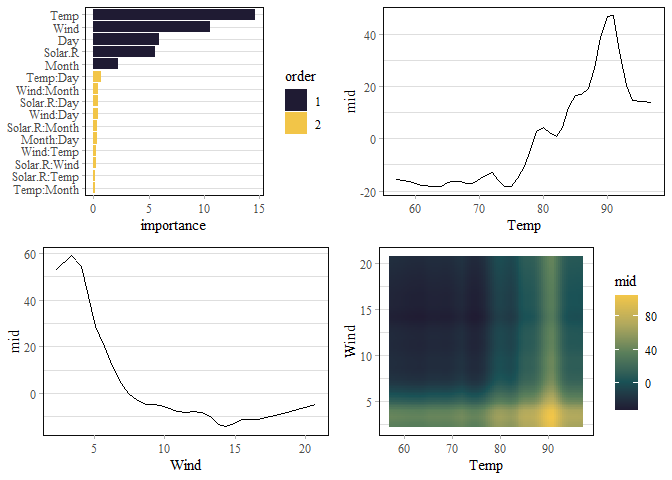
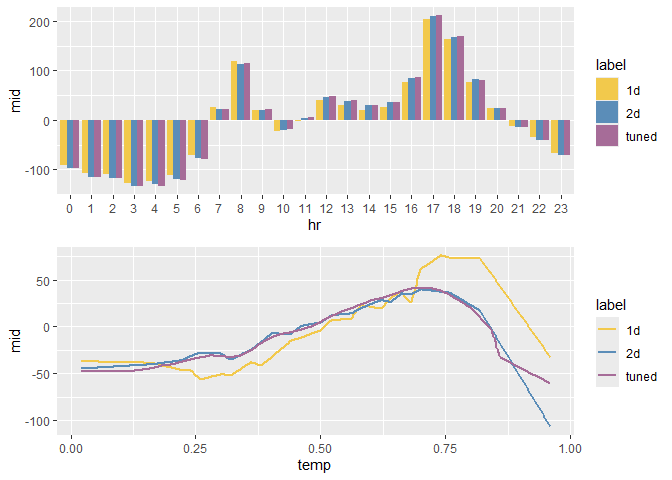
Deploying to gh-pages from @ ryo-asashi/midnight@b5862b089a70319841db5e1a166bdb698d2a6b69 🚀

diff --git a/index.html b/index.html
@@ -42,7 +42,7 @@ img {
 
     <a class="navbar-brand me-2" href="index.html">midnight</a>
 
-    <small class="nav-text text-muted me-auto" data-bs-toggle="tooltip" data-bs-placement="bottom" title="">0.1.2</small>
+    <small class="nav-text text-muted me-auto" data-bs-toggle="tooltip" data-bs-placement="bottom" title="">0.2.0</small>
 
 
     <button class="navbar-toggler" type="button" data-bs-toggle="collapse" data-bs-target="#navbar" aria-controls="navbar" aria-expanded="false" aria-label="Toggle navigation">
@@ -93,7 +93,7 @@ img {
 <span><span class="fu">pak</span><span class="fu">::</span><span class="fu"><a href="https://pak.r-lib.org/reference/pak.html" class="external-link">pak</a></span><span class="op">(</span><span class="st">"ryo-asashi/midnight"</span><span class="op">)</span></span></code></pre></div>
 </div>
 <div class="section level2">
-<h2 id="fit-mid-surrogate-models-using-parsnip">Fit MID Surrogate Models using ‘parsnip’<a class="anchor" aria-label="anchor" href="#fit-mid-surrogate-models-using-parsnip"></a>
+<h2 id="fit-mid-models-using-parsnip">Fit MID Models using ‘parsnip’<a class="anchor" aria-label="anchor" href="#fit-mid-models-using-parsnip"></a>
 </h2>
 <p>This is a basic example which shows you how to solve a common problem:</p>
 <div class="sourceCode" id="cb2"><pre class="downlit sourceCode r">
@@ -103,9 +103,7 @@ img {
 <span><span class="kw"><a href="https://rdrr.io/r/base/library.html" class="external-link">library</a></span><span class="op">(</span><span class="va">gridExtra</span><span class="op">)</span></span>
 <span><span class="kw"><a href="https://rdrr.io/r/base/library.html" class="external-link">library</a></span><span class="op">(</span><span class="va"><a href="https://www.statlearning.com" class="external-link">ISLR2</a></span><span class="op">)</span></span>
 <span></span>
-<span><span class="fu"><a href="https://rdrr.io/r/base/options.html" class="external-link">options</a></span><span class="op">(</span></span>
-<span>  midr.sequential <span class="op">=</span> <span class="st">"moonlit"</span></span>
-<span><span class="op">)</span></span></code></pre></div>
+<span><span class="fu"><a href="reference/nightfall.html">nightfall</a></span><span class="op">(</span><span class="op">)</span> <span class="co"># activate midnight</span></span></code></pre></div>
 <div class="sourceCode" id="cb3"><pre class="downlit sourceCode r">
 <code class="sourceCode R"><span><span class="co"># split dataset into training / validating subsets</span></span>
 <span><span class="fu"><a href="https://rdrr.io/r/base/Random.html" class="external-link">set.seed</a></span><span class="op">(</span><span class="fl">42</span><span class="op">)</span></span>
@@ -117,6 +115,9 @@ img {
 <span><span class="va">holdout</span> <span class="op">&lt;-</span> <span class="fu">initial_split</span><span class="op">(</span><span class="va">all</span>, prop <span class="op">=</span> <span class="fl">.5</span><span class="op">)</span></span>
 <span><span class="va">train</span> <span class="op">&lt;-</span> <span class="fu">training</span><span class="op">(</span><span class="va">holdout</span><span class="op">)</span></span>
 <span><span class="va">valid</span> <span class="op">&lt;-</span> <span class="fu">testing</span><span class="op">(</span><span class="va">holdout</span><span class="op">)</span></span></code></pre></div>
+<div class="section level3">
+<h3 id="first-order-mid-model">First-Order MID Model<a class="anchor" aria-label="anchor" href="#first-order-mid-model"></a>
+</h3>
 <div class="sourceCode" id="cb4"><pre class="downlit sourceCode r">
 <code class="sourceCode R"><span><span class="co"># create a first-order mid surrogate model</span></span>
 <span><span class="va">mid_spec_1</span> <span class="op">&lt;-</span> <span class="fu"><a href="reference/mid_reg.html">mid_reg</a></span><span class="op">(</span><span class="op">)</span></span>
@@ -132,7 +133,8 @@ img {
 <span><span class="co">#&gt; </span></span>
 <span><span class="co">#&gt; </span></span>
 <span><span class="co">#&gt; Call:</span></span>
-<span><span class="co">#&gt; interpret(formula = bikers ~ ., data = data)</span></span>
+<span><span class="co">#&gt; interpret(formula = bikers ~ ., data = data, model = NULL, weights = NULL,</span></span>
+<span><span class="co">#&gt;  k = NULL, k2 = NULL, lambda = NULL, terms = terms)</span></span>
 <span><span class="co">#&gt; </span></span>
 <span><span class="co">#&gt; Intercept: 146.06</span></span>
 <span><span class="co">#&gt; </span></span>
@@ -157,24 +159,45 @@ img {
 <span><span class="op">)</span></span></code></pre></div>
 <p><img src="reference/figures/README-ggmid_1d_fit-1.png" width="100%"></p>
 <div class="sourceCode" id="cb6"><pre class="downlit sourceCode r">
+<code class="sourceCode R"><span><span class="fu"><a href="https://ryo-asashi.github.io/midr/reference/theme_midr.html" class="external-link">par.midr</a></span><span class="op">(</span>mar <span class="op">=</span> <span class="fu"><a href="https://rdrr.io/r/base/c.html" class="external-link">c</a></span><span class="op">(</span><span class="fl">1</span>, <span class="fl">1</span>, <span class="fl">0</span>, <span class="fl">0</span><span class="op">)</span><span class="op">)</span></span>
+<span><span class="fu"><a href="https://rdrr.io/r/graphics/persp.html" class="external-link">persp</a></span><span class="op">(</span><span class="va">mid_1</span><span class="op">$</span><span class="va">fit</span>, <span class="st">"temp:hr"</span>, theta <span class="op">=</span> <span class="fl">50</span>, phi <span class="op">=</span> <span class="fl">20</span>, shade <span class="op">=</span> <span class="fl">.5</span><span class="op">)</span></span></code></pre></div>
+<p><img src="reference/figures/README-persp_mid_1-1.png" width="100%"></p>
+</div>
+<div class="section level3">
+<h3 id="second-order-mid-model">Second-Order MID Model<a class="anchor" aria-label="anchor" href="#second-order-mid-model"></a>
+</h3>
+<div class="sourceCode" id="cb7"><pre class="downlit sourceCode r">
 <code class="sourceCode R"><span><span class="co"># create a second-order mid surrogate model via "custom formula"</span></span>
-<span><span class="va">mid_spec_2</span> <span class="op">&lt;-</span> <span class="fu"><a href="reference/mid_reg.html">mid_reg</a></span><span class="op">(</span>penalty <span class="op">=</span> <span class="fl">0.000001</span><span class="op">)</span></span>
+<span><span class="va">mid_spec_2</span> <span class="op">&lt;-</span> <span class="fu"><a href="reference/mid_reg.html">mid_reg</a></span><span class="op">(</span></span>
+<span>  penalty <span class="op">=</span> <span class="fl">0.000001</span>,</span>
+<span>  terms <span class="op">=</span> <span class="va">bikers</span> <span class="op">~</span> <span class="va">.</span><span class="op">^</span><span class="fl">2</span> <span class="co"># add interaction terms</span></span>
+<span><span class="op">)</span> <span class="op">|&gt;</span></span>
+<span>  <span class="fu">set_engine</span><span class="op">(</span></span>
+<span>    <span class="st">"midr"</span>,</span>
+<span>    method <span class="op">=</span> <span class="st">"llt"</span> <span class="co"># for faster computation</span></span>
+<span>  <span class="op">)</span></span>
 <span><span class="va">mid_spec_2</span></span>
 <span><span class="co">#&gt; mid reg Model Specification (regression)</span></span>
 <span><span class="co">#&gt; </span></span>
 <span><span class="co">#&gt; Main Arguments:</span></span>
 <span><span class="co">#&gt;   penalty = 1e-06</span></span>
+<span><span class="co">#&gt;   terms = bikers ~ .^2</span></span>
+<span><span class="co">#&gt; </span></span>
+<span><span class="co">#&gt; Engine-Specific Arguments:</span></span>
+<span><span class="co">#&gt;   method = llt</span></span>
 <span><span class="co">#&gt; </span></span>
 <span><span class="co">#&gt; Computational engine: midr</span></span>
 <span><span class="co"># fit the model</span></span>
 <span><span class="va">mid_2</span> <span class="op">&lt;-</span> <span class="va">mid_spec_2</span> <span class="op">%&gt;%</span></span>
-<span>  <span class="fu">fit</span><span class="op">(</span><span class="va">bikers</span> <span class="op">~</span> <span class="va">.</span><span class="op">^</span><span class="fl">2</span>, <span class="va">train</span><span class="op">)</span> <span class="co"># pass original data on to interpret()</span></span>
+<span>  <span class="fu">fit</span><span class="op">(</span><span class="va">bikers</span> <span class="op">~</span> <span class="va">.</span>, <span class="va">train</span><span class="op">)</span></span>
 <span><span class="va">mid_2</span></span>
 <span><span class="co">#&gt; parsnip model object</span></span>
 <span><span class="co">#&gt; </span></span>
 <span><span class="co">#&gt; </span></span>
 <span><span class="co">#&gt; Call:</span></span>
-<span><span class="co">#&gt; interpret(formula = bikers ~ .^2, data = data, lambda = 1e-06)</span></span>
+<span><span class="co">#&gt; interpret(formula = bikers ~ .^2, data = data, model = NULL,</span></span>
+<span><span class="co">#&gt;  weights = NULL, k = NULL, k2 = NULL, lambda = 1e-06, terms = terms,</span></span>
+<span><span class="co">#&gt;  method = "llt")</span></span>
 <span><span class="co">#&gt; </span></span>
 <span><span class="co">#&gt; Intercept: 146.06</span></span>
 <span><span class="co">#&gt; </span></span>
@@ -192,7 +215,7 @@ img {
 <span><span class="co">#&gt;   .metric .estimator .estimate</span></span>
 <span><span class="co">#&gt;   &lt;chr&gt;   &lt;chr&gt;          &lt;dbl&gt;</span></span>
 <span><span class="co">#&gt; 1 rmse    standard        44.3</span></span></code></pre></div>
-<div class="sourceCode" id="cb7"><pre class="downlit sourceCode r">
+<div class="sourceCode" id="cb8"><pre class="downlit sourceCode r">
 <code class="sourceCode R"><span><span class="va">imp_2</span> <span class="op">&lt;-</span> <span class="fu"><a href="https://ryo-asashi.github.io/midr/reference/mid.importance.html" class="external-link">mid.importance</a></span><span class="op">(</span><span class="va">mid_2</span><span class="op">$</span><span class="va">fit</span>, data <span class="op">=</span> <span class="va">train</span><span class="op">)</span></span>
 <span><span class="fu"><a href="https://rdrr.io/pkg/gridExtra/man/arrangeGrob.html" class="external-link">grid.arrange</a></span><span class="op">(</span>nrow <span class="op">=</span> <span class="fl">2</span>,</span>
 <span> <span class="fu"><a href="https://ryo-asashi.github.io/midr/reference/ggmid.html" class="external-link">ggmid</a></span><span class="op">(</span><span class="va">imp_2</span>, max.nterms <span class="op">=</span> <span class="fl">15</span><span class="op">)</span>,</span>
@@ -202,28 +225,29 @@ img {
 <span>       data <span class="op">=</span> <span class="va">valid</span>, main.effects <span class="op">=</span> <span class="cn">TRUE</span><span class="op">)</span></span>
 <span><span class="op">)</span></span></code></pre></div>
 <p><img src="reference/figures/README-ggmid_2d_fit-1.png" width="100%"></p>
-<div class="sourceCode" id="cb8"><pre class="downlit sourceCode r">
+<div class="sourceCode" id="cb9"><pre class="downlit sourceCode r">
 <code class="sourceCode R"><span><span class="fu"><a href="https://ryo-asashi.github.io/midr/reference/theme_midr.html" class="external-link">par.midr</a></span><span class="op">(</span>mar <span class="op">=</span> <span class="fu"><a href="https://rdrr.io/r/base/c.html" class="external-link">c</a></span><span class="op">(</span><span class="fl">1</span>, <span class="fl">1</span>, <span class="fl">0</span>, <span class="fl">0</span><span class="op">)</span><span class="op">)</span></span>
 <span><span class="fu"><a href="https://rdrr.io/r/graphics/persp.html" class="external-link">persp</a></span><span class="op">(</span><span class="va">mid_2</span><span class="op">$</span><span class="va">fit</span>, <span class="st">"temp:hr"</span>, theta <span class="op">=</span> <span class="fl">50</span>, phi <span class="op">=</span> <span class="fl">20</span>, shade <span class="op">=</span> <span class="fl">.5</span><span class="op">)</span></span></code></pre></div>
-<p><img src="reference/figures/README-persp_mid-1.png" width="100%"></p>
+<p><img src="reference/figures/README-persp_mid_2-1.png" width="100%"></p>
+</div>
 </div>
 <div class="section level2">
 <h2 id="tune-mid-surrogate-models-using-tune">Tune MID Surrogate Models using ‘tune’<a class="anchor" aria-label="anchor" href="#tune-mid-surrogate-models-using-tune"></a>
 </h2>
-<div class="sourceCode" id="cb9"><pre class="downlit sourceCode r">
+<div class="sourceCode" id="cb10"><pre class="downlit sourceCode r">
 <code class="sourceCode R"><span><span class="co"># create a second-order mid surrogate model via "custom formula"</span></span>
 <span><span class="co"># </span></span>
 <span><span class="va">mid_spec_3</span> <span class="op">&lt;-</span> <span class="fu"><a href="reference/mid_reg.html">mid_reg</a></span><span class="op">(</span></span>
 <span>  params_main <span class="op">=</span> <span class="fu">tune</span><span class="op">(</span><span class="op">)</span>,</span>
 <span>  params_inter <span class="op">=</span> <span class="fu">tune</span><span class="op">(</span><span class="op">)</span>,</span>
 <span>  penalty <span class="op">=</span> <span class="fu">tune</span><span class="op">(</span><span class="op">)</span>,</span>
-<span>  terms <span class="op">=</span> <span class="op">~</span><span class="op">(</span><span class="va">mnth</span><span class="op">+</span><span class="va">hr</span><span class="op">+</span><span class="va">workingday</span><span class="op">+</span><span class="va">weathersit</span><span class="op">+</span><span class="va">temp</span><span class="op">+</span><span class="va">hum</span><span class="op">+</span><span class="va">windspeed</span><span class="op">)</span><span class="op">^</span><span class="fl">2</span></span>
-<span>  <span class="co"># all main effects and all 2-way interactions</span></span>
+<span>  terms <span class="op">=</span> <span class="va">bikers</span> <span class="op">~</span> <span class="va">.</span><span class="op">^</span><span class="fl">2</span></span>
 <span><span class="op">)</span> <span class="op">|&gt;</span></span>
 <span>  <span class="fu">set_engine</span><span class="op">(</span></span>
 <span>    engine <span class="op">=</span> <span class="st">"midr"</span>,</span>
-<span>    method <span class="op">=</span> <span class="st">"llt"</span>,</span>
-<span>    verbosity <span class="op">=</span> <span class="fl">0L</span></span>
+<span>    method <span class="op">=</span> <span class="st">"llt"</span>, <span class="co"># for faster computation</span></span>
+<span>    verbosity <span class="op">=</span> <span class="fl">0L</span>, <span class="co"># for keeping console clean</span></span>
+<span>    singular.ok <span class="op">=</span> <span class="cn">TRUE</span> <span class="co"># for avoiding errors</span></span>
 <span>  <span class="op">)</span></span>
 <span><span class="va">mid_spec_3</span></span>
 <span><span class="co">#&gt; mid reg Model Specification (regression)</span></span>
@@ -232,20 +256,21 @@ img {
 <span><span class="co">#&gt;   penalty = tune()</span></span>
 <span><span class="co">#&gt;   params_main = tune()</span></span>
 <span><span class="co">#&gt;   params_inter = tune()</span></span>
-<span><span class="co">#&gt;   terms = ~(mnth + hr + workingday + weathersit + temp + hum + windspeed)^2</span></span>
+<span><span class="co">#&gt;   terms = bikers ~ .^2</span></span>
 <span><span class="co">#&gt; </span></span>
 <span><span class="co">#&gt; Engine-Specific Arguments:</span></span>
 <span><span class="co">#&gt;   method = llt</span></span>
 <span><span class="co">#&gt;   verbosity = 0</span></span>
+<span><span class="co">#&gt;   singular.ok = TRUE</span></span>
 <span><span class="co">#&gt; </span></span>
 <span><span class="co">#&gt; Computational engine: midr</span></span>
 <span><span class="co"># define a cross validation method</span></span>
 <span><span class="fu"><a href="https://rdrr.io/r/base/Random.html" class="external-link">set.seed</a></span><span class="op">(</span><span class="fl">42</span><span class="op">)</span></span>
 <span><span class="va">cv</span> <span class="op">&lt;-</span> <span class="fu">vfold_cv</span><span class="op">(</span><span class="va">train</span>, v <span class="op">=</span> <span class="fl">2</span><span class="op">)</span></span>
-<span><span class="co"># execute the hyperparameter tuning</span></span>
+<span><span class="co"># execute the parameter tuning</span></span>
 <span><span class="va">tune_res</span> <span class="op">&lt;-</span> <span class="va">mid_spec_3</span> <span class="op">%&gt;%</span></span>
 <span>  <span class="fu">tune_bayes</span><span class="op">(</span></span>
-<span>    <span class="va">bikers</span> <span class="op">~</span> <span class="va">.</span>, <span class="co"># not allow tune_bayes() to preprocess data</span></span>
+<span>    <span class="va">bikers</span> <span class="op">~</span> <span class="va">.</span>, <span class="co"># pass original data on to interpret()</span></span>
 <span>    resamples <span class="op">=</span> <span class="va">cv</span>,</span>
 <span>    iter <span class="op">=</span> <span class="fl">50</span></span>
 <span>  <span class="op">)</span></span>
@@ -255,12 +280,13 @@ img {
 <span><span class="co">#&gt;   penalty params_main params_inter .config</span></span>
 <span><span class="co">#&gt;     &lt;dbl&gt;       &lt;int&gt;        &lt;int&gt; &lt;chr&gt;  </span></span>
 <span><span class="co">#&gt; 1   0.668          70            5 Iter23</span></span></code></pre></div>
-<div class="sourceCode" id="cb10"><pre class="downlit sourceCode r">
+<div class="sourceCode" id="cb11"><pre class="downlit sourceCode r">
 <code class="sourceCode R"><span><span class="co"># create a second-order mid surrogate model via "custom formula"</span></span>
 <span><span class="va">mid_spec_4</span> <span class="op">&lt;-</span> <span class="fu"><a href="reference/mid_reg.html">mid_reg</a></span><span class="op">(</span></span>
 <span>  params_main <span class="op">=</span> <span class="va">tune_best</span><span class="op">$</span><span class="va">params_main</span>,</span>
 <span>  params_inter <span class="op">=</span> <span class="va">tune_best</span><span class="op">$</span><span class="va">params_inter</span>,</span>
-<span>  penalty <span class="op">=</span> <span class="va">tune_best</span><span class="op">$</span><span class="va">penalty</span></span>
+<span>  penalty <span class="op">=</span> <span class="va">tune_best</span><span class="op">$</span><span class="va">penalty</span>,</span>
+<span>  terms <span class="op">=</span> <span class="va">bikers</span> <span class="op">~</span> <span class="va">.</span><span class="op">^</span><span class="fl">2</span></span>
 <span><span class="op">)</span></span>
 <span><span class="va">mid_spec_4</span></span>
 <span><span class="co">#&gt; mid reg Model Specification (regression)</span></span>
@@ -269,18 +295,20 @@ img {
 <span><span class="co">#&gt;   penalty = tune_best$penalty</span></span>
 <span><span class="co">#&gt;   params_main = tune_best$params_main</span></span>
 <span><span class="co">#&gt;   params_inter = tune_best$params_inter</span></span>
+<span><span class="co">#&gt;   terms = bikers ~ .^2</span></span>
 <span><span class="co">#&gt; </span></span>
 <span><span class="co">#&gt; Computational engine: midr</span></span>
 <span><span class="co"># fit the model</span></span>
 <span><span class="va">mid_tune</span> <span class="op">&lt;-</span> <span class="va">mid_spec_4</span> <span class="op">%&gt;%</span></span>
-<span>  <span class="fu">fit</span><span class="op">(</span><span class="va">bikers</span> <span class="op">~</span> <span class="va">.</span><span class="op">^</span><span class="fl">2</span>, <span class="va">train</span><span class="op">)</span> <span class="co"># pass original data on to interpret()</span></span>
+<span>  <span class="fu">fit</span><span class="op">(</span><span class="va">bikers</span> <span class="op">~</span> <span class="va">.</span>, <span class="va">train</span><span class="op">)</span></span>
 <span><span class="va">mid_tune</span></span>
 <span><span class="co">#&gt; parsnip model object</span></span>
 <span><span class="co">#&gt; </span></span>
 <span><span class="co">#&gt; </span></span>
 <span><span class="co">#&gt; Call:</span></span>
-<span><span class="co">#&gt; interpret(formula = bikers ~ .^2, data = data, k = 70L, lambda = 0.668346758138943,</span></span>
-<span><span class="co">#&gt;  k2 = 5L)</span></span>
+<span><span class="co">#&gt; interpret(formula = bikers ~ .^2, data = data, model = NULL,</span></span>
+<span><span class="co">#&gt;  weights = NULL, k = 70L, k2 = 5L, lambda = 0.668346758138943,</span></span>
+<span><span class="co">#&gt;  terms = terms)</span></span>
 <span><span class="co">#&gt; </span></span>
 <span><span class="co">#&gt; Intercept: 146.06</span></span>
 <span><span class="co">#&gt; </span></span>
@@ -298,7 +326,7 @@ img {
 <span><span class="co">#&gt;   .metric .estimator .estimate</span></span>
 <span><span class="co">#&gt;   &lt;chr&gt;   &lt;chr&gt;          &lt;dbl&gt;</span></span>
 <span><span class="co">#&gt; 1 rmse    standard        43.0</span></span></code></pre></div>
-<div class="sourceCode" id="cb11"><pre class="downlit sourceCode r">
+<div class="sourceCode" id="cb12"><pre class="downlit sourceCode r">
 <code class="sourceCode R"><span><span class="va">imp_tune</span> <span class="op">&lt;-</span> <span class="fu"><a href="https://ryo-asashi.github.io/midr/reference/mid.importance.html" class="external-link">mid.importance</a></span><span class="op">(</span><span class="va">mid_tune</span><span class="op">$</span><span class="va">fit</span>, data <span class="op">=</span> <span class="va">train</span><span class="op">)</span></span>
 <span><span class="fu"><a href="https://rdrr.io/pkg/gridExtra/man/arrangeGrob.html" class="external-link">grid.arrange</a></span><span class="op">(</span>nrow <span class="op">=</span> <span class="fl">2</span>,</span>
 <span> <span class="fu"><a href="https://ryo-asashi.github.io/midr/reference/ggmid.html" class="external-link">ggmid</a></span><span class="op">(</span><span class="va">imp_tune</span>, max.nterms <span class="op">=</span> <span class="fl">15</span><span class="op">)</span>,</span>
@@ -308,10 +336,26 @@ img {
 <span>       data <span class="op">=</span> <span class="va">valid</span>, main.effects <span class="op">=</span> <span class="cn">TRUE</span><span class="op">)</span></span>
 <span><span class="op">)</span></span></code></pre></div>
 <p><img src="reference/figures/README-ggmid_tune_fit-1.png" width="100%"></p>
-<div class="sourceCode" id="cb12"><pre class="downlit sourceCode r">
+<div class="sourceCode" id="cb13"><pre class="downlit sourceCode r">
 <code class="sourceCode R"><span><span class="fu"><a href="https://ryo-asashi.github.io/midr/reference/theme_midr.html" class="external-link">par.midr</a></span><span class="op">(</span>mar <span class="op">=</span> <span class="fu"><a href="https://rdrr.io/r/base/c.html" class="external-link">c</a></span><span class="op">(</span><span class="fl">1</span>, <span class="fl">1</span>, <span class="fl">0</span>, <span class="fl">0</span><span class="op">)</span><span class="op">)</span></span>
 <span><span class="fu"><a href="https://rdrr.io/r/graphics/persp.html" class="external-link">persp</a></span><span class="op">(</span><span class="va">mid_tune</span><span class="op">$</span><span class="va">fit</span>, <span class="st">"temp:hr"</span>, theta <span class="op">=</span> <span class="fl">50</span>, phi <span class="op">=</span> <span class="fl">20</span>, shade <span class="op">=</span> <span class="fl">.5</span><span class="op">)</span></span></code></pre></div>
 <p><img src="reference/figures/README-persp_tuned_mid-1.png" width="100%"></p>
+</div>
+<div class="section level2">
+<h2 id="compare-mid-models">Compare MID Models<a class="anchor" aria-label="anchor" href="#compare-mid-models"></a>
+</h2>
+<div class="sourceCode" id="cb14"><pre class="downlit sourceCode r">
+<code class="sourceCode R"><span><span class="co"># construct a midlist object</span></span>
+<span><span class="va">mids</span> <span class="op">&lt;-</span> <span class="fu"><a href="https://ryo-asashi.github.io/midr/reference/midlist.html" class="external-link">midlist</a></span><span class="op">(</span></span>
+<span>  <span class="st">"1d"</span> <span class="op">=</span> <span class="va">mid_1</span><span class="op">$</span><span class="va">fit</span>,</span>
+<span>  <span class="st">"2d"</span> <span class="op">=</span> <span class="va">mid_2</span><span class="op">$</span><span class="va">fit</span>,</span>
+<span>  <span class="st">"tuned"</span> <span class="op">=</span> <span class="va">mid_tune</span><span class="op">$</span><span class="va">fit</span></span>
+<span><span class="op">)</span></span>
+<span><span class="fu"><a href="https://rdrr.io/pkg/gridExtra/man/arrangeGrob.html" class="external-link">grid.arrange</a></span><span class="op">(</span></span>
+<span>  <span class="fu"><a href="https://ryo-asashi.github.io/midr/reference/ggmid.html" class="external-link">ggmid</a></span><span class="op">(</span><span class="va">mids</span>, <span class="st">"hr"</span><span class="op">)</span>,</span>
+<span>  <span class="fu"><a href="https://ryo-asashi.github.io/midr/reference/ggmid.html" class="external-link">ggmid</a></span><span class="op">(</span><span class="va">mids</span>, <span class="st">"temp"</span>, linewidth <span class="op">=</span> <span class="fl">3</span><span class="op">/</span><span class="fl">4</span><span class="op">)</span></span>
+<span><span class="op">)</span></span></code></pre></div>
+<p><img src="reference/figures/README-unnamed-chunk-2-1.png" width="100%"></p>
 </div>
 </div>
   </main><aside class="col-md-3"><div class="links">

diff --git a/articles/midnight.html b/articles/midnight.html
@@ -42,7 +42,7 @@ img {
 
     <a class="navbar-brand me-2" href="../index.html">midnight</a>
 
-    <small class="nav-text text-muted me-auto" data-bs-toggle="tooltip" data-bs-placement="bottom" title="">0.1.2</small>
+    <small class="nav-text text-muted me-auto" data-bs-toggle="tooltip" data-bs-placement="bottom" title="">0.2.0</small>
 
 
     <button class="navbar-toggler" type="button" data-bs-toggle="collapse" data-bs-target="#navbar" aria-controls="navbar" aria-expanded="false" aria-label="Toggle navigation">
@@ -136,7 +136,8 @@ model fitting and hyperparameter tuning.</p>
 <span><span class="co">#&gt; </span></span>
 <span><span class="co">#&gt; Call:</span></span>
 <span><span class="co">#&gt; interpret(formula = Ozone ~ (Wind + Solar.R)^2, data = data,</span></span>
-<span><span class="co">#&gt;  k = 50, lambda = 5)</span></span>
+<span><span class="co">#&gt;  model = NULL, weights = NULL, k = 50, k2 = NULL, lambda = 5,</span></span>
+<span><span class="co">#&gt;  terms = terms)</span></span>
 <span><span class="co">#&gt; </span></span>
 <span><span class="co">#&gt; Intercept: 42.099</span></span>
 <span><span class="co">#&gt; </span></span>
@@ -204,7 +205,8 @@ leverage this speed boost across your entire modeling pipeline by using
 <span><span class="co">#&gt; </span></span>
 <span><span class="co">#&gt; Call:</span></span>
 <span><span class="co">#&gt; interpret(formula = cbind(Ozone, Temp) ~ (Wind + Solar.R)^2,</span></span>
-<span><span class="co">#&gt;  data = data, k = 50, lambda = 5)</span></span>
+<span><span class="co">#&gt;  data = data, model = NULL, weights = NULL, k = 50, k2 = NULL,</span></span>
+<span><span class="co">#&gt;  lambda = 5, terms = terms)</span></span>
 <span><span class="co">#&gt; </span></span>
 <span><span class="co">#&gt; Intercept: 42.099, 77.793</span></span>
 <span><span class="co">#&gt; </span></span>

diff --git a/news/index.html b/news/index.html
@@ -18,7 +18,7 @@ img {
 
     <a class="navbar-brand me-2" href="../index.html">midnight</a>
 
-    <small class="nav-text text-muted me-auto" data-bs-toggle="tooltip" data-bs-placement="bottom" title="">0.1.2</small>
+    <small class="nav-text text-muted me-auto" data-bs-toggle="tooltip" data-bs-placement="bottom" title="">0.2.0</small>
 
 
     <button class="navbar-toggler" type="button" data-bs-toggle="collapse" data-bs-target="#navbar" aria-controls="navbar" aria-expanded="false" aria-label="Toggle navigation">
@@ -51,14 +51,14 @@ img {
     </div>
 
     <div class="section level2">
-<h2 class="pkg-version" data-toc-text="0.1.2" id="midnight-012">midnight 0.1.2<a class="anchor" aria-label="anchor" href="#midnight-012"></a></h2>
+<h2 class="pkg-version" data-toc-text="0.2.0" id="midnight-020">midnight 0.2.0<a class="anchor" aria-label="anchor" href="#midnight-020"></a></h2>
 <div class="section level3">
-<h3 id="new-features-0-1-2">New Features<a class="anchor" aria-label="anchor" href="#new-features-0-1-2"></a></h3>
+<h3 id="new-features-0-2-0">New Features<a class="anchor" aria-label="anchor" href="#new-features-0-2-0"></a></h3>
 <ul><li>Introduced <code><a href="../reference/nightfall.html">nightfall()</a></code> and <code><a href="../reference/nightfall.html">daybreak()</a></code> to seamlessly toggle the package’s extended features, including dynamic S3 method registration, custom color themes, and high-performance OLS solvers.</li>
 <li>Added <code><a href="../reference/fastLmMatrix.html">fastLmMatrix()</a></code>, an optimized wrapper around <code><a href="https://rdrr.io/pkg/RcppEigen/man/fastLm.html" class="external-link">RcppEigen::fastLm()</a></code> that efficiently handles multivariate (matrix) responses.</li>
 </ul></div>
 <div class="section level3">
-<h3 id="minor-improvements-0-1-2">Minor Improvements<a class="anchor" aria-label="anchor" href="#minor-improvements-0-1-2"></a></h3>
+<h3 id="minor-improvements-0-2-0">Minor Improvements<a class="anchor" aria-label="anchor" href="#minor-improvements-0-2-0"></a></h3>
 <ul><li>Renamed and updated the <code>ggmid.midimp</code> wrapper to ensure perfect alignment with <code>midr</code> (&gt;= 0.6.0).</li>
 <li>Streamlined the package structure by significantly reducing hard dependencies (<code>Imports</code>).</li>
 </ul></div>

diff --git a/authors.html b/authors.html
@@ -18,7 +18,7 @@ img {
 
     <a class="navbar-brand me-2" href="index.html">midnight</a>
 
-    <small class="nav-text text-muted me-auto" data-bs-toggle="tooltip" data-bs-placement="bottom" title="">0.1.2</small>
+    <small class="nav-text text-muted me-auto" data-bs-toggle="tooltip" data-bs-placement="bottom" title="">0.2.0</small>
 
 
     <button class="navbar-toggler" type="button" data-bs-toggle="collapse" data-bs-target="#navbar" aria-controls="navbar" aria-expanded="false" aria-label="Toggle navigation">
@@ -64,13 +64,13 @@ img {
 
       <p>Asashiba R (2026).
 <em>midnight: A 'tidymodels' Engine and Other Extensions for the 'midr' Package</em>.
-R package version 0.1.2, <a href="https://github.com/ryo-asashi/midnight" class="external-link">https://github.com/ryo-asashi/midnight</a>.
+R package version 0.2.0, <a href="https://github.com/ryo-asashi/midnight" class="external-link">https://github.com/ryo-asashi/midnight</a>.
 </p>
       <pre>@Manual{,
   title = {midnight: A 'tidymodels' Engine and Other Extensions for the 'midr' Package},
   author = {Ryoichi Asashiba},
   year = {2026},
-  note = {R package version 0.1.2},
+  note = {R package version 0.2.0},
   url = {https://github.com/ryo-asashi/midnight},
 }</pre>
     </div>

diff --git a/404.html b/404.html
@@ -40,7 +40,7 @@ img {
 
     <a class="navbar-brand me-2" href="https://ryo-asashi.github.io/midnight/index.html">midnight</a>
 
-    <small class="nav-text text-muted me-auto" data-bs-toggle="tooltip" data-bs-placement="bottom" title="">0.1.2</small>
+    <small class="nav-text text-muted me-auto" data-bs-toggle="tooltip" data-bs-placement="bottom" title="">0.2.0</small>
 
 
     <button class="navbar-toggler" type="button" data-bs-toggle="collapse" data-bs-target="#navbar" aria-controls="navbar" aria-expanded="false" aria-label="Toggle navigation">

diff --git a/LICENSE-text.html b/LICENSE-text.html
@@ -18,7 +18,7 @@ img {
 
     <a class="navbar-brand me-2" href="index.html">midnight</a>
 
-    <small class="nav-text text-muted me-auto" data-bs-toggle="tooltip" data-bs-placement="bottom" title="">0.1.2</small>
+    <small class="nav-text text-muted me-auto" data-bs-toggle="tooltip" data-bs-placement="bottom" title="">0.2.0</small>
 
 
     <button class="navbar-toggler" type="button" data-bs-toggle="collapse" data-bs-target="#navbar" aria-controls="navbar" aria-expanded="false" aria-label="Toggle navigation">

diff --git a/LICENSE.html b/LICENSE.html
@@ -18,7 +18,7 @@ img {
 
     <a class="navbar-brand me-2" href="index.html">midnight</a>
 
-    <small class="nav-text text-muted me-auto" data-bs-toggle="tooltip" data-bs-placement="bottom" title="">0.1.2</small>
+    <small class="nav-text text-muted me-auto" data-bs-toggle="tooltip" data-bs-placement="bottom" title="">0.2.0</small>
 
 
     <button class="navbar-toggler" type="button" data-bs-toggle="collapse" data-bs-target="#navbar" aria-controls="navbar" aria-expanded="false" aria-label="Toggle navigation">

diff --git a/articles/index.html b/articles/index.html
@@ -18,7 +18,7 @@ img {
 
     <a class="navbar-brand me-2" href="../index.html">midnight</a>
 
-    <small class="nav-text text-muted me-auto" data-bs-toggle="tooltip" data-bs-placement="bottom" title="">0.1.2</small>
+    <small class="nav-text text-muted me-auto" data-bs-toggle="tooltip" data-bs-placement="bottom" title="">0.2.0</small>
 
 
     <button class="navbar-toggler" type="button" data-bs-toggle="collapse" data-bs-target="#navbar" aria-controls="navbar" aria-expanded="false" aria-label="Toggle navigation">

diff --git a/reference/fastLmMatrix.html b/reference/fastLmMatrix.html
@@ -18,7 +18,7 @@ img {
 
     <a class="navbar-brand me-2" href="../index.html">midnight</a>
 
-    <small class="nav-text text-muted me-auto" data-bs-toggle="tooltip" data-bs-placement="bottom" title="">0.1.2</small>
+    <small class="nav-text text-muted me-auto" data-bs-toggle="tooltip" data-bs-placement="bottom" title="">0.2.0</small>
 
 
     <button class="navbar-toggler" type="button" data-bs-toggle="collapse" data-bs-target="#navbar" aria-controls="navbar" aria-expanded="false" aria-label="Toggle navigation">

diff --git a/reference/ggmid.midimp.html b/reference/ggmid.midimp.html
@@ -20,7 +20,7 @@ img {
 
     <a class="navbar-brand me-2" href="../index.html">midnight</a>
 
-    <small class="nav-text text-muted me-auto" data-bs-toggle="tooltip" data-bs-placement="bottom" title="">0.1.2</small>
+    <small class="nav-text text-muted me-auto" data-bs-toggle="tooltip" data-bs-placement="bottom" title="">0.2.0</small>
 
 
     <button class="navbar-toggler" type="button" data-bs-toggle="collapse" data-bs-target="#navbar" aria-controls="navbar" aria-expanded="false" aria-label="Toggle navigation">

diff --git a/reference/index.html b/reference/index.html
@@ -18,7 +18,7 @@ img {
 
     <a class="navbar-brand me-2" href="../index.html">midnight</a>
 
-    <small class="nav-text text-muted me-auto" data-bs-toggle="tooltip" data-bs-placement="bottom" title="">0.1.2</small>
+    <small class="nav-text text-muted me-auto" data-bs-toggle="tooltip" data-bs-placement="bottom" title="">0.2.0</small>
 
 
     <button class="navbar-toggler" type="button" data-bs-toggle="collapse" data-bs-target="#navbar" aria-controls="navbar" aria-expanded="false" aria-label="Toggle navigation">

diff --git a/reference/mid_reg.html b/reference/mid_reg.html
@@ -20,7 +20,7 @@ img {
 
     <a class="navbar-brand me-2" href="../index.html">midnight</a>
 
-    <small class="nav-text text-muted me-auto" data-bs-toggle="tooltip" data-bs-placement="bottom" title="">0.1.2</small>
+    <small class="nav-text text-muted me-auto" data-bs-toggle="tooltip" data-bs-placement="bottom" title="">0.2.0</small>
 
 
     <button class="navbar-toggler" type="button" data-bs-toggle="collapse" data-bs-target="#navbar" aria-controls="navbar" aria-expanded="false" aria-label="Toggle navigation">